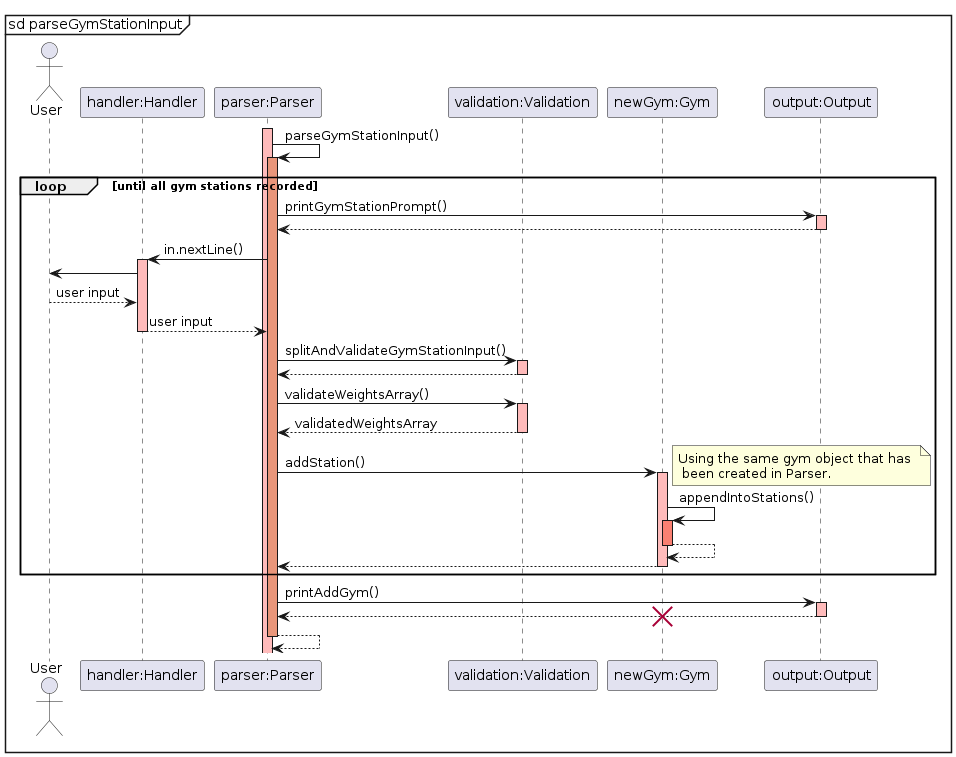
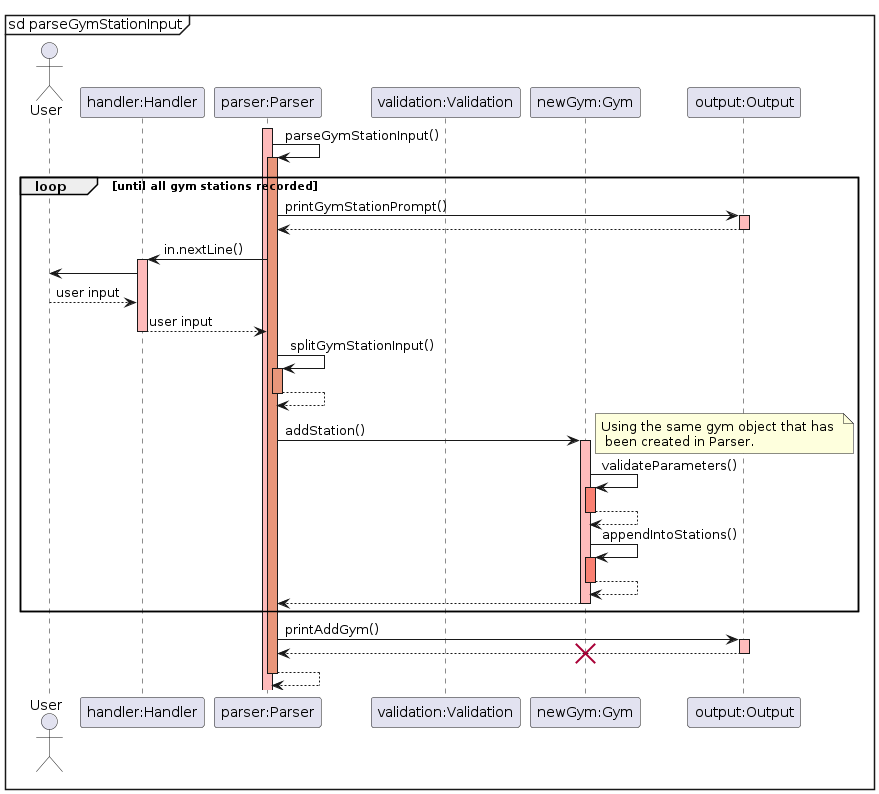
modify seq diagram

Changed region(s): [[0.0, 0.0, 1.0, 1.0]]

diff --git a/src/main/java/workouts/Workout.java b/src/main/java/workouts/Workout.java
@@ -11,8 +11,6 @@ import utility.Parser;
 public class Workout {
     //@@author JustinSoh
     private LocalDate date = null;
-    private final Parser parser;
-    private final WorkoutLists workoutLists;
 
 
     /**
@@ -21,8 +19,7 @@ public class Workout {
      * @param stringDate String representing the date of the workout.
      */
     public Workout(String stringDate) {
-        parser = new Parser();
-        workoutLists = new WorkoutLists();
+        Parser parser = new Parser();
         this.date = parser.parseDate(stringDate);
     }
 
@@ -30,8 +27,6 @@ public class Workout {
      * Constructor that builds a new Workout object.
      */
     public Workout() {
-        parser = new Parser();
-        workoutLists = new WorkoutLists();
     }
 
 
@@ -53,6 +48,7 @@ public class Workout {
     }
 
     public String getDateForFile(){
+        Parser parser = new Parser();
         return parser.parseFormattedDate(this.date);
     }
 
@@ -62,6 +58,7 @@ public class Workout {
      * @param workout The workout object to be added.
      */
     protected void addIntoWorkoutList(Workout workout) {
+        WorkoutLists workoutLists = new WorkoutLists();
         if (workout instanceof Run) {
             workoutLists.addRun((Run) workout);
         } else if (workout instanceof Gym) {

diff --git a/docs/DeveloperGuide.md b/docs/DeveloperGuide.md
@@ -434,15 +434,17 @@ After adding a `Gym` object, the user is then prompted for input for the gym sta
 
 2. `output.printGymStationPrompt()` is used to print the prompt for the user, and user input is retrieved.
 
-3. User input is passed to `validation.splitAndValidateGymStationInput()`, which as the name suggests, splits and validates the parameters from the user, returning a `String[]` variable.
+3. User input is split using `Parser.splitGymStationInput` which as the name suggests, splits the parameters from the user, returning a `String[]` variable.
 
-4. After splitting the input, the weights parameter is validated via `validation.validateWeightsArray()`, returning a `ArrayList<Double>` variable containing the valid weights.
+4. After splitting the input, the parameters are passed to  to `newGym.addStation()`. 
 
-5. After all parameters are validated, it is passed to `newGym.addStation()` to add a `GymStation` object to the existing `Gym` object. The `GymStation` object is appended to an `ArrayList<GymStation>` variable.
+5. `newGym.addStation()` will then create a `GymStation` object and validate the provided values. 
 
-6. Steps 2 to 5 repeat until all stations have been added.
+6. If the values are valid, the `GymStation` object is appended to an `ArrayList<GymStation>` stored in the `newGym` object. 
 
-7. The final `Gym` object is passed to `output.printAddGym()` and a message acknowledging the successful adding is printed to the screen.
+7. Steps 2 to 6 repeat until all stations have been added.
+
+8. The final `Gym` object is passed to `output.printAddGym()` and a message acknowledging the successful adding is printed to the screen.
 
 This is the sequence diagram for adding a `GymStation` object:
 
